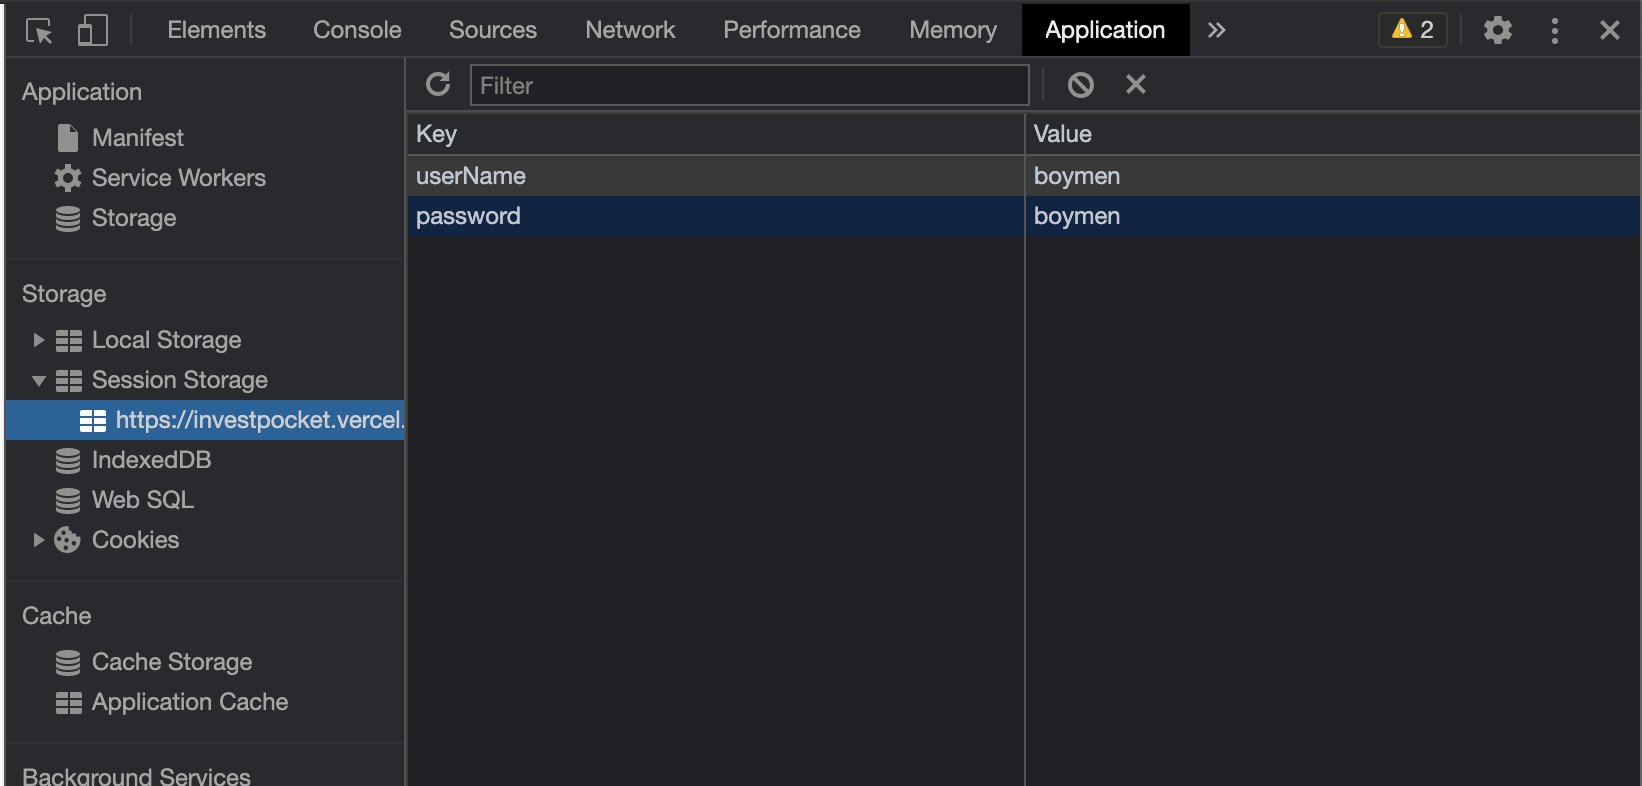
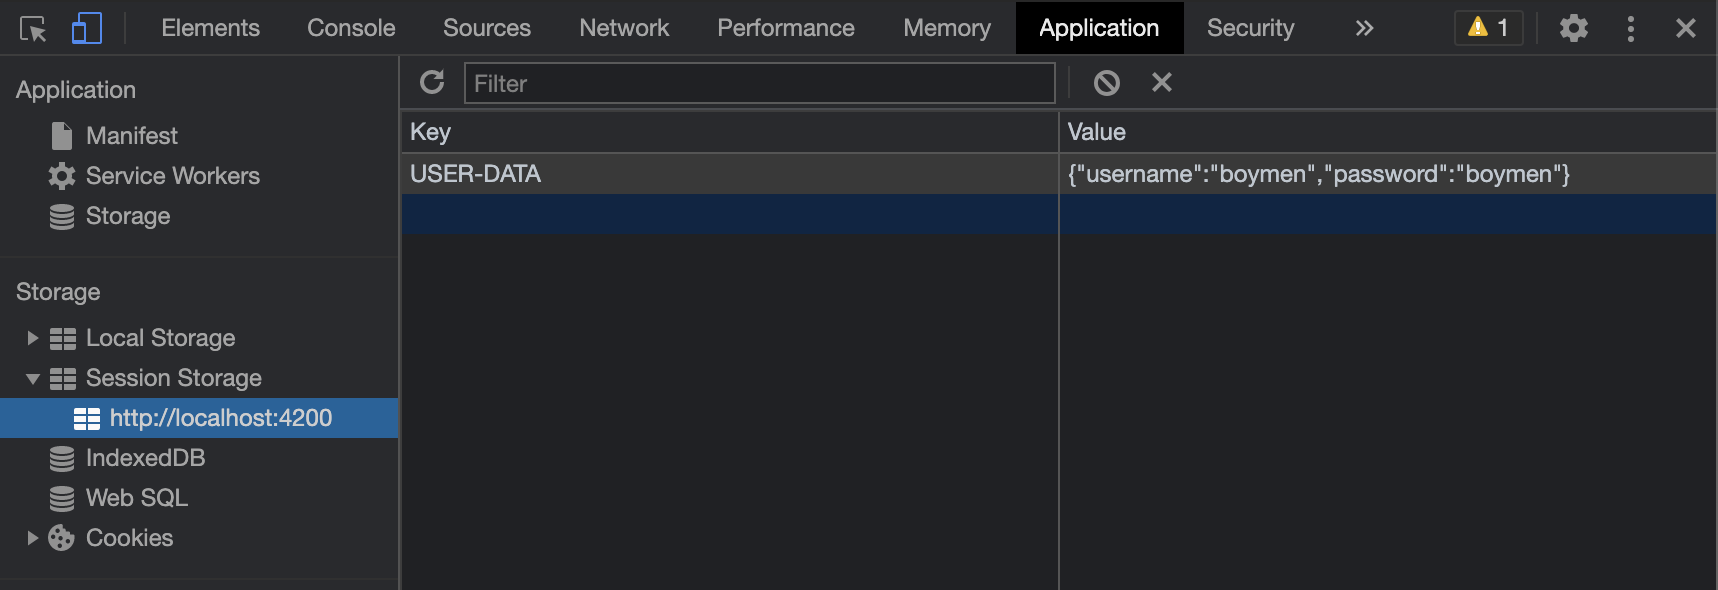
update readme

Changed region(s): [[0.0, 0.0, 1.0, 1.0], [0.8386, 0.0305, 0.9939, 0.061], [0.7765, 0.0305, 0.8076, 0.061]]

diff --git a/src/app/page/login/service/login/login.service.ts b/src/app/page/login/service/login/login.service.ts
@@ -11,8 +11,13 @@ export class LoginService {
 
   loggedIn(userName: string, password: string): boolean {
     if (userName == 'boymen' && password == 'boymen') {
-      sessionStorage.setItem('userName', userName);
-      sessionStorage.setItem('password', password);
+      sessionStorage.setItem(
+        'USER-DATA',
+        JSON.stringify({
+          username: userName,
+          password: password,
+        })
+      );
       return true;
     }
     alert('try email: boymen, password: boymen');
